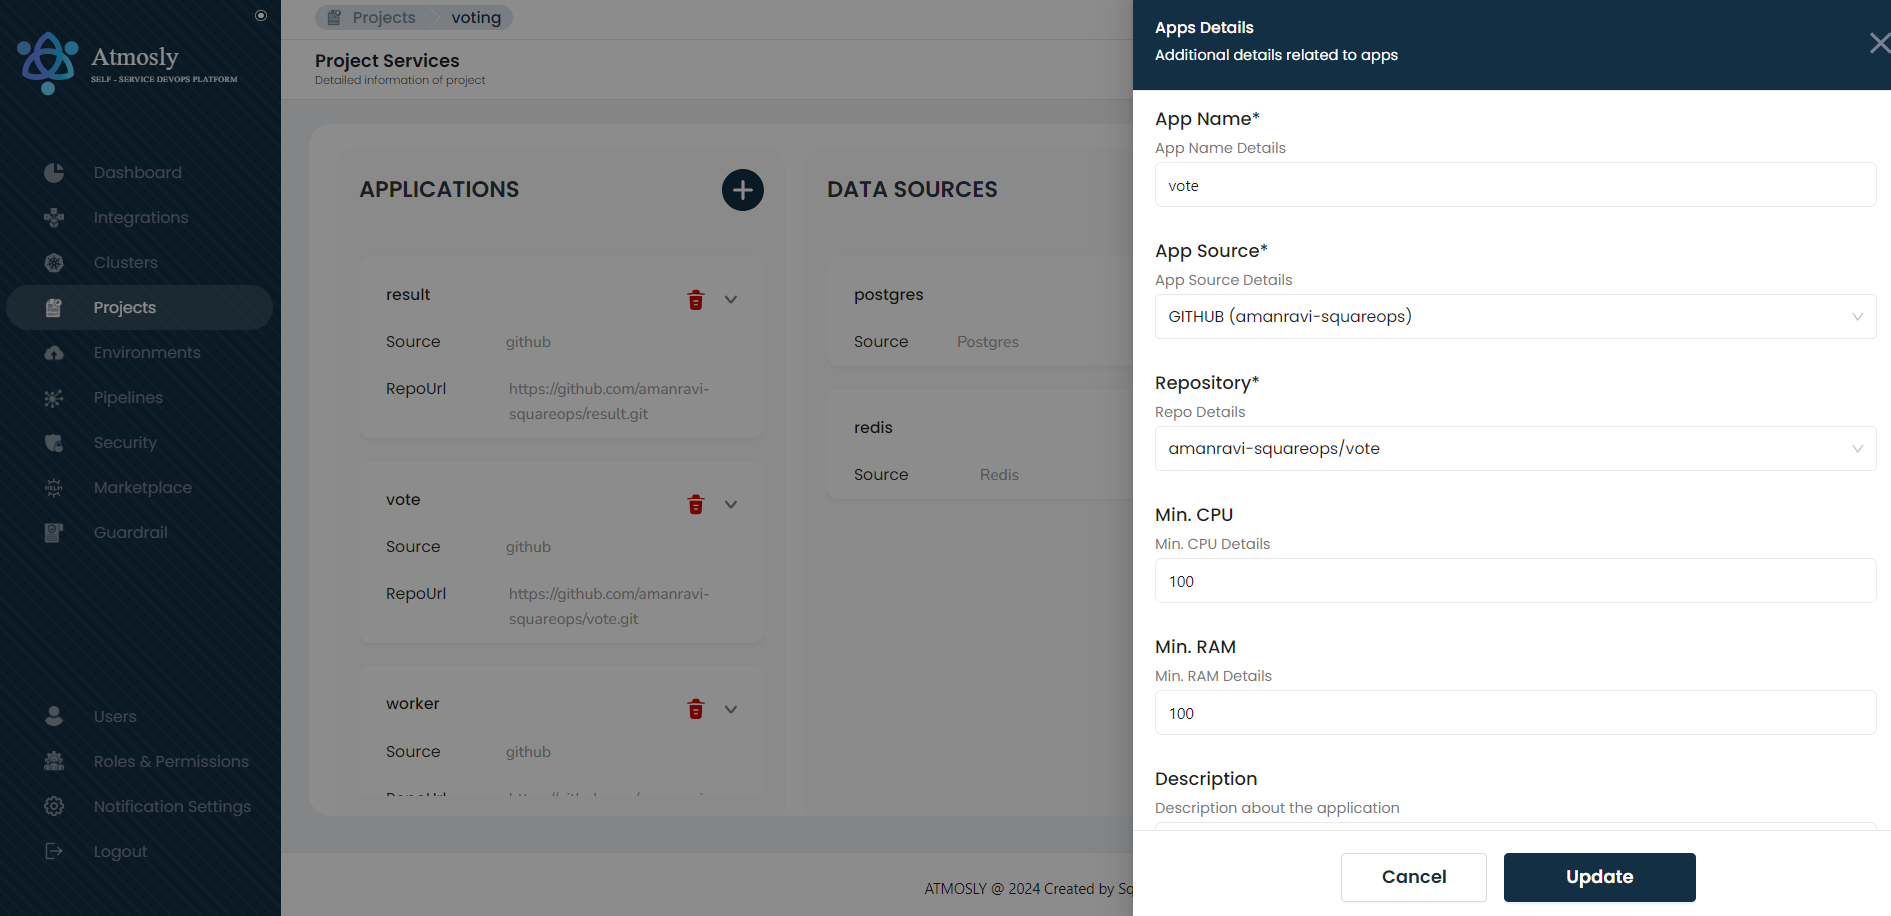
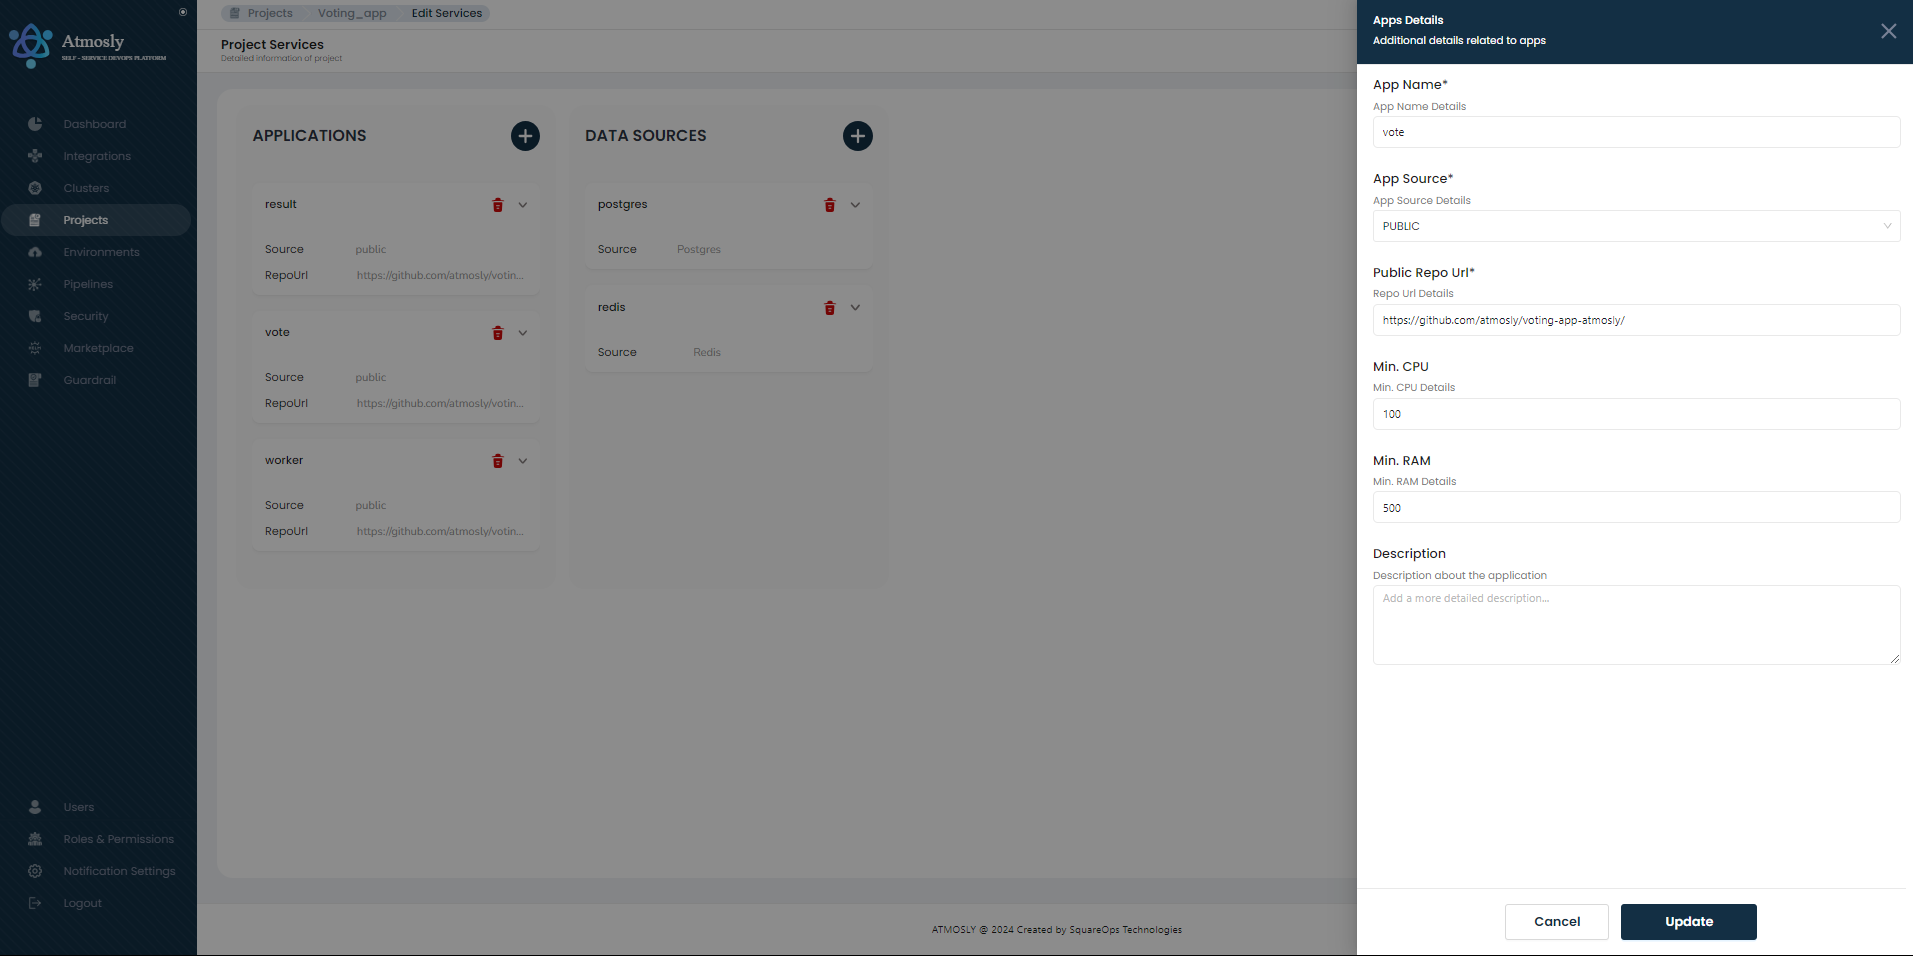
update images and add database deployment part

diff --git a/README.md b/README.md
@@ -7,7 +7,8 @@ Before we begin:
 Through this document, we will be deploying Voting application on Atmosly. [Listed here](https://docs-test.atmosly.com/docs/atmosly/deploy_your_first_application) is a brief of all the steps we will be following to successfully deploy the application. 
  
 ## About the Voting App
-GitHub URL - https://github.com/dockersamples/example-voting-app. 
+GitHub URL - https://github.com/atmosly/voting-app-atmosly.git. 
+
 This application consists of five microservices -
  - Vote (python) - from where end user would cast a vote
  - Result (react) - where the results of the voting are stored 
@@ -29,9 +30,10 @@ Projects module have three elements:
 1. Applicaton services
 2. DataSource services
 3. Environment Variables <br> 
+
 You can find more details about the Project module [here](https://docs-test.atmosly.com/docs/projects/create_project). 
-### To make a new project: 
-#### Step 1: 
+### To make Voting App project on Atmosly: 
+#### Step 1 : 
 For the application services, you will need to click on the "+" icon in Applications and add Vote microservice as per screenshot below. 
 Adding Vote Microservice:
 
@@ -57,10 +59,12 @@ a. Click on the **Edit Environment Variable** button.<br>
 You have two choices for adding environment variables:
 1. Importing/ selecting the .env file from GitHub branch - by clicking on the **Import** button.
 2. Manually adding it by clicking the **Add** button - in the case where you would like to manually define your variables or add to the list of environment variables, you can also add your variable manually. 
-We will import our variables for the services - 
-1. Vote microservice variables - Click on **Import** button and select 'main' as branch and select .env.vote as the file and click on **Proceed**.
-2. Result microservices variables - Click on **Import** button and select 'main' as branch and select .env.result as the file and click on **Proceed**.
-3. Worker microservice variables - Click on **Import** button and select 'main' as branch and select .env.worker as the file and click on **Proceed**.
+
+We will import our variables for the services: 
+1. Vote microservice variables - Click on **Import** button and select 'main' as branch and select **.env.vote** as the file and click on **Proceed**.
+2. Result microservices variables - Click on **Import** button and select 'main' as branch and select **.env.result** as the file and click on **Proceed**.
+3. Worker microservice variables - Click on **Import** button and select 'main' as branch and select **.env.worker** as the file and click on **Proceed**.
+
 The final screen after the environment variables have been added would look something like this - 
 
 Vote:<br>
@@ -81,7 +85,11 @@ By this time you have:
 1. Successfully integrated a cloud account
 2. Successfully created a cluster
 3. Have a Voting App project
+
 To create environment, follow the steps mentioned [here](https://docs.atmosly.com/docs/environments/create_env) with the information required.
+
+### Application Services:
+
 Please note, you will need to pass the following details to deploy Voting App - 
 Voting app (for result, vote and worker services)
 1. Branch:<br>
@@ -106,3 +114,27 @@ Voting app (for result, vote and worker services)
     - worker: cluster IP 
 5. min-max CPU : 500m-1000m for all application services
 6. min-max memory : 1000mi-2000mi for all application services
+
+### Database Services:
+
+Please note, you will need to pass the following details to deploy the database services for the Voting App (Postgres and Redis)
+
+1. Type:<br>
+    - Postgres: Self Managed
+    - Redis: Self Managed
+
+2. Version:<br>
+    - Postgres: any
+    - Redis: any
+
+3. Nodegroup:<br>
+    - Postgres: default
+    - Redis: default
+
+4. Storage Size:<br>
+    - Postgres: 10GB
+    - Redis: 5GB
+
+5. Username , Password & Dataname:<br>
+    - Postgres: any
+    - Redis: any
